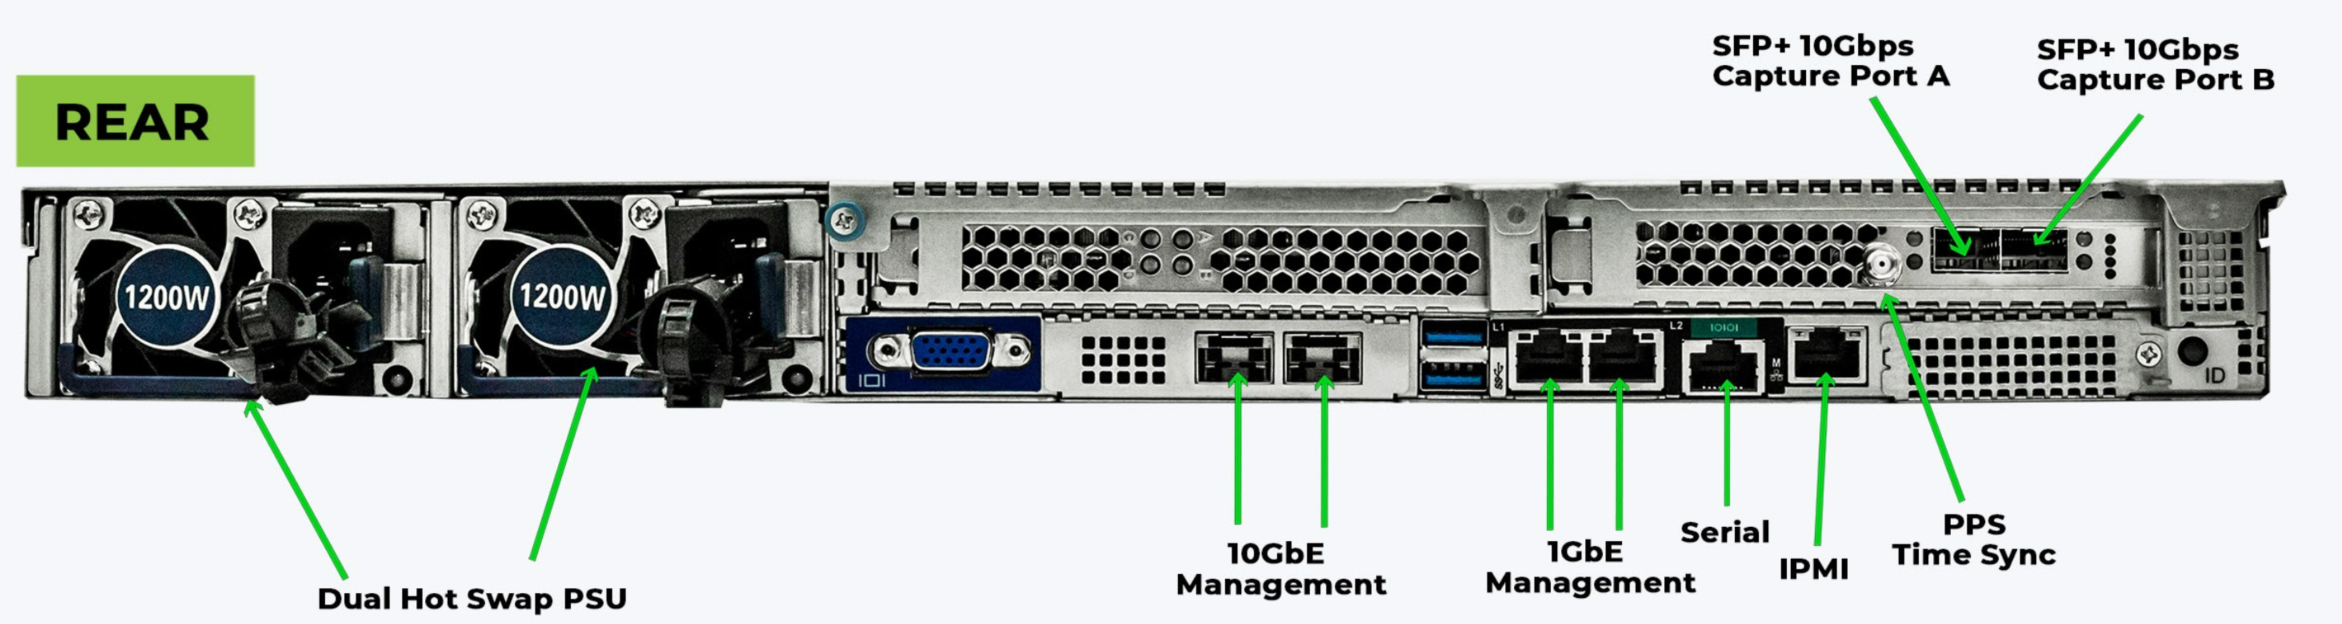
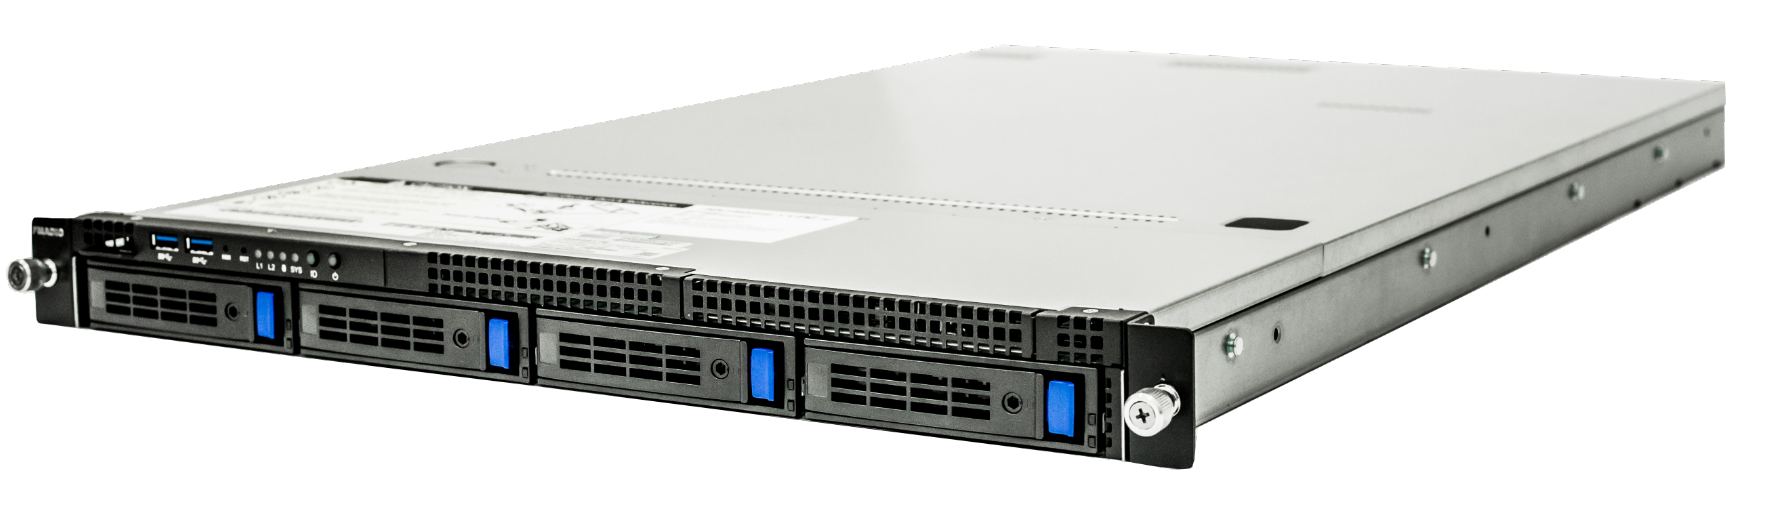
GitBook: [fmadio20v3] 2 pages and 5 assets modified

diff --git a/network-port-layout.md b/network-port-layout.md
@@ -2,11 +2,11 @@
 
 FMADIO 20G Gen3 1U Capture Port  layout
 
-![](.gitbook/assets/image%20%2813%29.png)
+![](.gitbook/assets/image%20%2816%29.png)
 
 FMADIO 20G Gen3 2U Capture Port layout
 
-![](.gitbook/assets/image%20%2814%29.png)
+![](.gitbook/assets/image%20%2817%29.png)
 
 
 

diff --git a/hardware.md b/hardware.md
@@ -1,2 +1,10 @@
 # Hardware
 
+FMADIO 20G Gen3 1U System
+
+![FMADIO 20G Gen3 1U Packet Capture System](.gitbook/assets/image%20%2815%29.png)
+
+FMADIO 20G Gen3 2U System
+
+![FMADIO 20G Gen3 2U Packet Capture System](.gitbook/assets/image%20%2814%29.png)
+
